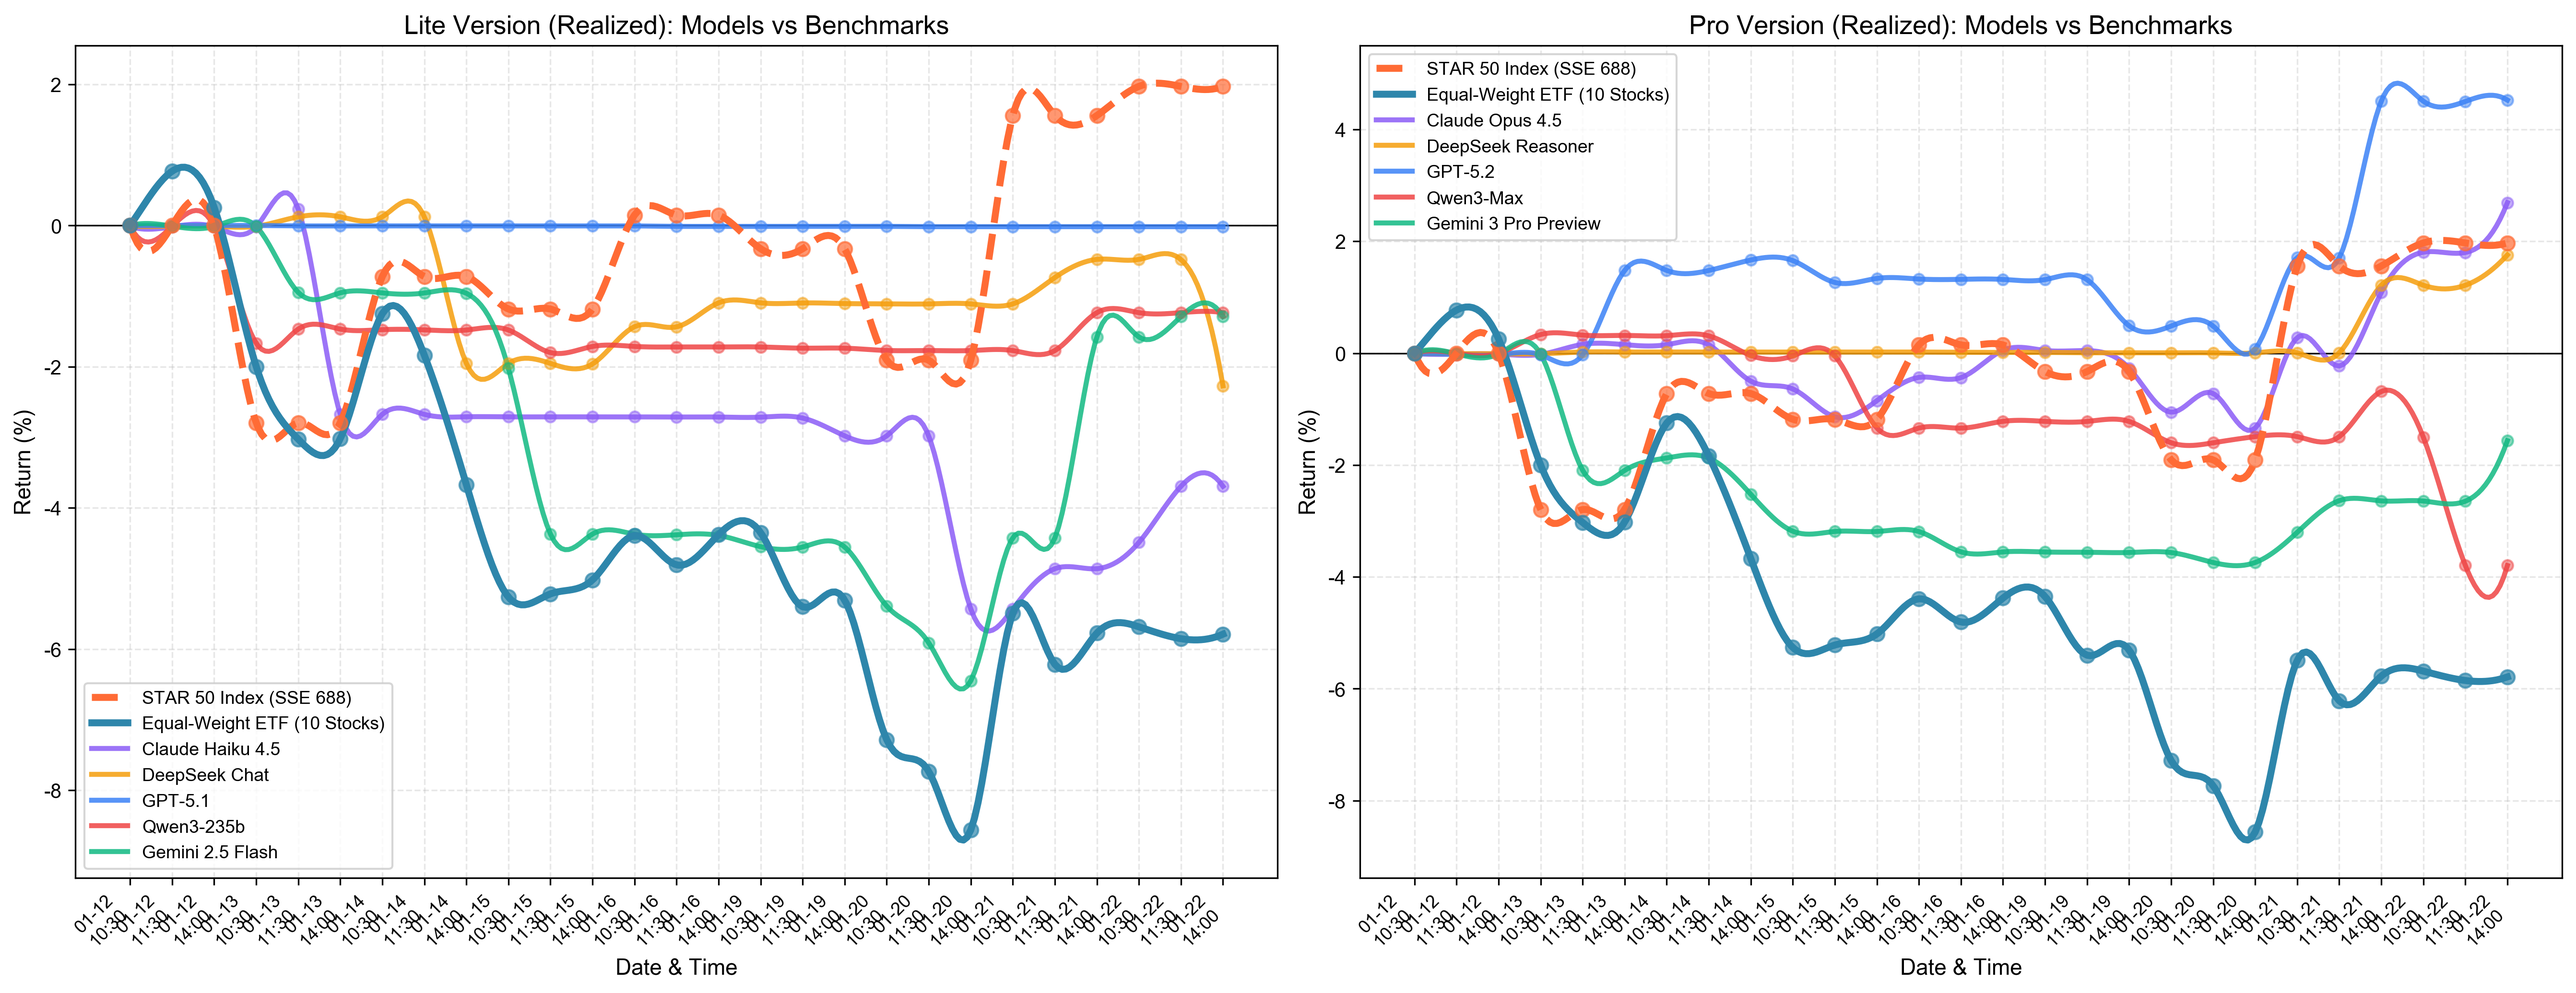
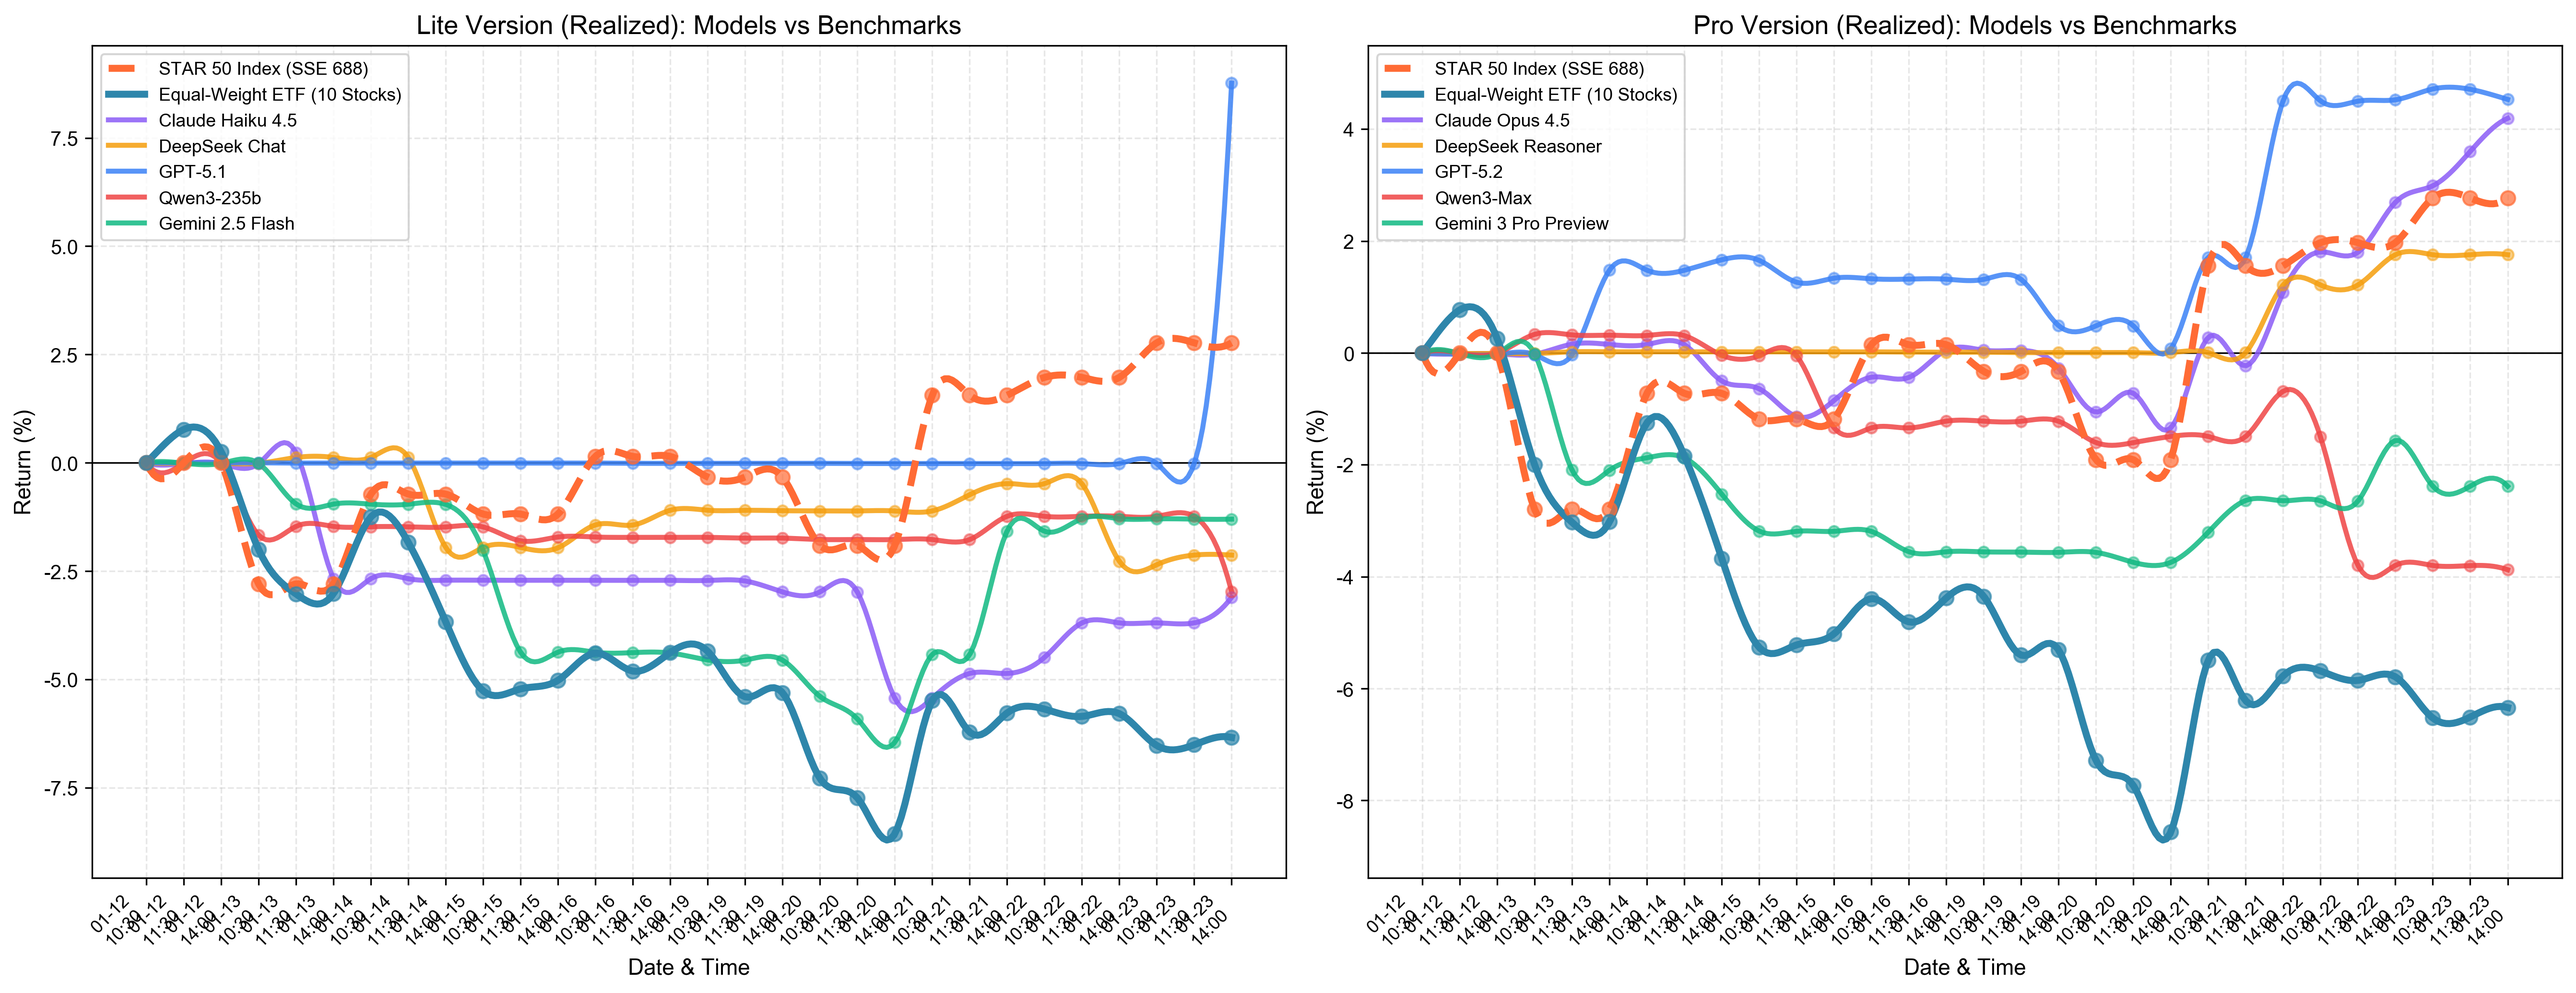
1.23

diff --git a/experiments/visualize.py b/experiments/visualize.py
@@ -25,7 +25,7 @@ OUTPUT_DIR.mkdir(exist_ok=True)
 
 # Date range filter (inclusive)
 DATE_FILTER_START = datetime.strptime("2026-01-12 00:00:00", "%Y-%m-%d %H:%M:%S")
-DATE_FILTER_END = datetime.strptime("2026-01-22 23:59:59", "%Y-%m-%d %H:%M:%S")
+DATE_FILTER_END = datetime.strptime("2026-01-23 23:59:59", "%Y-%m-%d %H:%M:%S")
 
 
 def in_date_range(dt: datetime) -> bool:

diff --git a/experiments/visualizations/performance_summary.md b/experiments/visualizations/performance_summary.md
@@ -2,8 +2,8 @@
 
 | Model | Latest Return | Max Return | Min Return | Volatility |
 |-------|---------------|------------|------------|------------|
-| Claude Haiku 4.5 | -3.70% | 0.23% | -5.43% | 1.58% |
-| DeepSeek Chat | -2.27% | 0.12% | -2.27% | 0.75% |
-| Gemini 2.5 Flash | -1.29% | 0.00% | -6.45% | 2.05% |
-| GPT-5.1 | -0.02% | 0.00% | -0.02% | 0.01% |
-| Qwen3-235b | -1.23% | -0.01% | -1.80% | 0.53% |
+| Claude Haiku 4.5 | -3.10% | 0.23% | -5.43% | 1.52% |
+| DeepSeek Chat | -2.13% | 0.12% | -2.35% | 0.82% |
+| Gemini 2.5 Flash | -1.30% | 0.00% | -6.45% | 1.99% |
+| GPT-5.1 | 8.76% | 8.76% | -0.02% | 1.57% |
+| Qwen3-235b | -2.97% | -0.01% | -2.97% | 0.58% |
